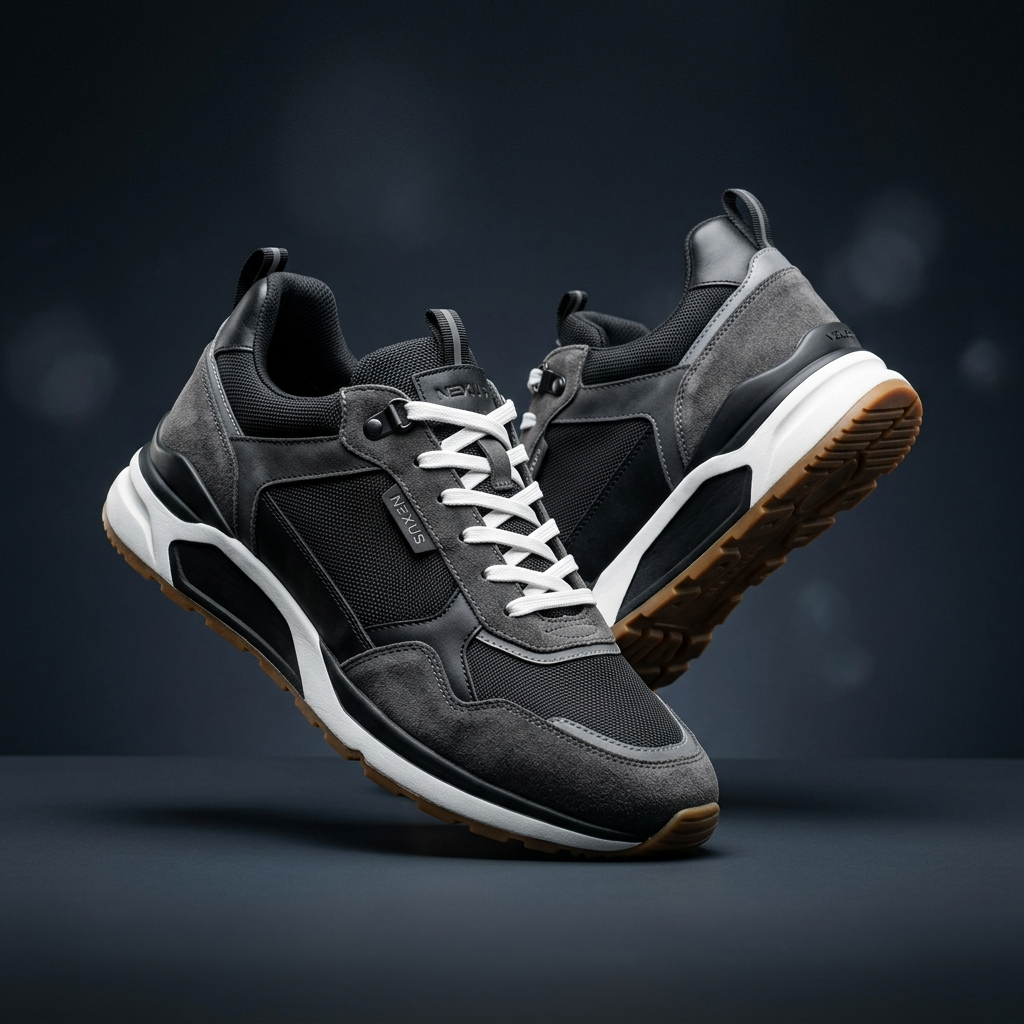
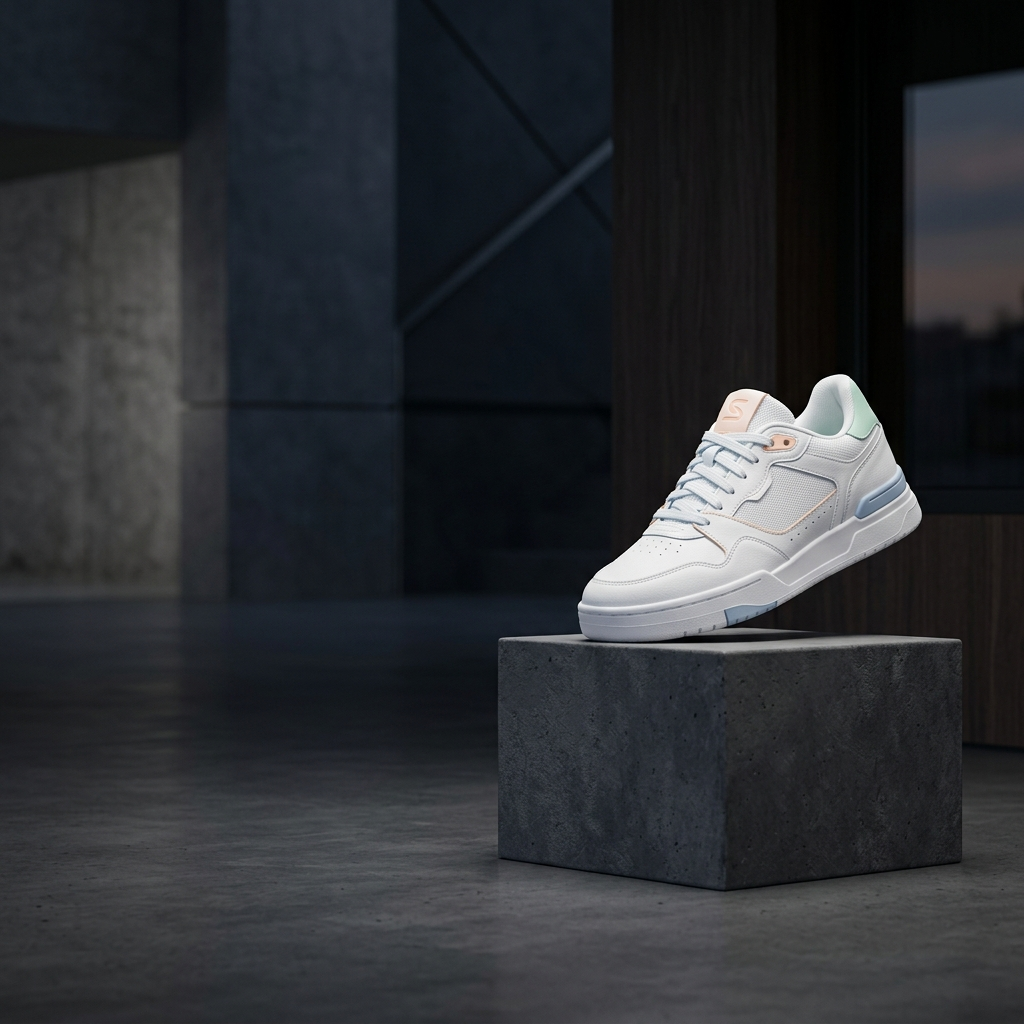
fix danh mục nổi bật trên trang home

diff --git a/src/main/webapp/assets/css/style.css b/src/main/webapp/assets/css/style.css
@@ -345,27 +345,63 @@
     padding-bottom: 10px;
 }
 
+/* ===== CATEGORY SECTION WRAPPER ===== */
+.cat-section {
+    padding: 60px 0;
+    background: #fafafa;
+}
+
+.cat-section-header {
+    text-align: center;
+    margin-bottom: 36px;
+}
+
+.cat-section-title {
+    font-size: 1.75rem;
+    font-weight: 800;
+    text-transform: uppercase;
+    letter-spacing: 3px;
+    color: #1a1a1a;
+    margin-bottom: 14px;
+}
+
+.cat-section-line {
+    width: 60px;
+    height: 3px;
+    background: var(--primary-red);
+    margin: 0 auto;
+    border-radius: 2px;
+}
+
 /* ===== CATEGORY SHOWCASE GRID (Trang chủ #1) ===== */
 .cat-showcase {
     display: grid;
     grid-template-columns: repeat(2, 1fr);
-    gap: 16px;
+    gap: 20px;
 }
 
-@media (max-width: 767px) {
+@media (max-width: 576px) {
     .cat-showcase {
-        grid-template-columns: repeat(2, 1fr);
+        grid-template-columns: 1fr;
+        gap: 14px;
     }
 }
 
 .cat-card {
     position: relative;
-    border-radius: 12px;
+    border-radius: 14px;
     overflow: hidden;
     display: block;
     text-decoration: none;
-    aspect-ratio: 2.5 / 1; /* Làm chiều cao ngắn lại nhiều hơn nữa (tỷ lệ 2.5 : 1) */
-    background: #000;
+    aspect-ratio: 16 / 7;
+    background: linear-gradient(135deg, #2d2d2d 0%, #1a1a1a 100%);
+    box-shadow: 0 4px 20px rgba(0,0,0,0.12);
+    transition: box-shadow 0.35s ease, transform 0.35s ease;
+}
+
+.cat-card:hover {
+    box-shadow: 0 12px 40px rgba(0,0,0,0.22);
+    transform: translateY(-3px);
 }
 
 .cat-card img {
@@ -376,71 +412,96 @@
     height: 100%;
     object-fit: cover;
     display: block;
-    transition: transform 0.45s cubic-bezier(0.25, 0.46, 0.45, 0.94);
+    transition: transform 0.55s cubic-bezier(0.25, 0.46, 0.45, 0.94), opacity 0.3s ease;
+    opacity: 0.92;
 }
 
-/* Lớp phủ đen trong suốt trải đều toàn ảnh */
+/* Lớp phủ gradient từ dưới lên — đẹp hơn overlay đen thuần */
 .cat-card::after {
     content: '';
     position: absolute;
     inset: 0;
-    background: rgba(0, 0, 0, 0.35);
-    transition: background 0.3s ease;
+    background: linear-gradient(
+        to top,
+        rgba(0,0,0,0.75) 0%,
+        rgba(0,0,0,0.25) 50%,
+        rgba(0,0,0,0.05) 100%
+    );
+    transition: background 0.35s ease;
     z-index: 1;
 }
 
 .cat-card:hover img {
-    transform: scale(1.08);
+    transform: scale(1.07);
+    opacity: 1;
 }
 
 .cat-card:hover::after {
-    background: rgba(0, 0, 0, 0.55); /* Đậm hơn khi đưa chuột vào */
+    background: linear-gradient(
+        to top,
+        rgba(0,0,0,0.82) 0%,
+        rgba(0,0,0,0.35) 55%,
+        rgba(0,0,0,0.08) 100%
+    );
 }
 
-/* Chữ đưa ra chính giữa */
+/* Chữ đặt ở dưới card — dùng div bọc 2 span */
 .cat-label {
     position: absolute;
-    top: 50%;
-    left: 0;
-    right: 0;
-    transform: translateY(-50%);
+    inset: 0;
     z-index: 2;
-    padding: 0 20px;
-    text-align: center;
-    color: #fff;
-    font-weight: 800;
-    font-size: 1.6rem; /* Chữ nhỏ lại một chút cho cân đối với chiều cao mới */
-    letter-spacing: 2px;
-    text-transform: uppercase;
-    text-shadow: 0 4px 8px rgba(0,0,0,0.6);
     display: flex;
     flex-direction: column;
     align-items: center;
-    justify-content: center;
+    justify-content: flex-end;
+    padding: 0 20px 28px;
+    gap: 12px;
+    text-align: center;
+    transition: padding-bottom 0.35s ease;
 }
 
-/* Hiệu ứng nút bấm giả hiện ra khi hover */
-.cat-label::after {
-    content: 'KHÁM PHÁ NGAY'; 
-    font-size: 0.85rem;
-    font-weight: 600;
-    margin-top: 12px;
-    letter-spacing: 1px;
-    padding: 8px 24px;
-    border: 2px solid #fff;
-    border-radius: 30px;
-    background: transparent;
+.cat-card:hover .cat-label {
+    padding-bottom: 32px;
+}
+
+.cat-label-name {
     color: #fff;
-    opacity: 0;
-    transform: translateY(15px);
-    transition: all 0.35s ease;
+    font-weight: 800;
+    font-size: 1.35rem;
+    letter-spacing: 2.5px;
+    text-transform: uppercase;
+    text-shadow: 0 2px 16px rgba(0,0,0,0.65);
+    line-height: 1.2;
+    transition: transform 0.3s ease;
 }
 
-.cat-card:hover .cat-label::after {
+.cat-card:hover .cat-label-name {
+    transform: translateY(-4px);
+}
+
+/* Nút "Khám phá" — ẩn mặc định, slide lên khi hover */
+.cat-label-btn {
+    display: inline-block;
+    font-size: 0.75rem;
+    font-weight: 700;
+    letter-spacing: 1.5px;
+    padding: 7px 24px;
+    border: 1.5px solid rgba(255,255,255,0.9);
+    border-radius: 30px;
+    background: rgba(255,255,255,0.12);
+    color: #fff;
+    text-transform: uppercase;
+    opacity: 0;
+    transform: translateY(14px);
+    transition: opacity 0.35s ease, transform 0.35s ease, background 0.25s ease;
+    backdrop-filter: blur(4px);
+    -webkit-backdrop-filter: blur(4px);
+}
+
+.cat-card:hover .cat-label-btn {
     opacity: 1;
     transform: translateY(0);
-    background: #fff;
-    color: #000; /* Nút chuyển sang nền trắng, chữ đen */
+    background: rgba(255,255,255,0.22);
 }
 
 /* ===== PRODUCT CARD — Upgraded (Trang chủ #2) ===== */